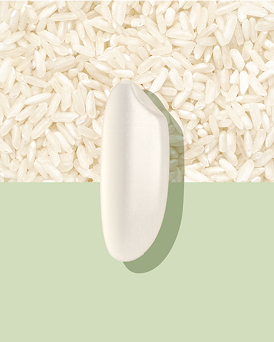
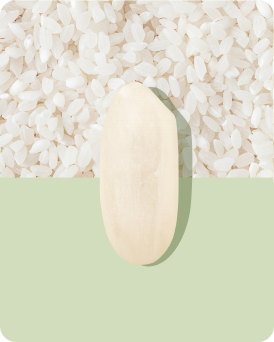
[UPDATE] content layout fb r1.3

Changed region(s): [[0.0, 0.0, 1.0, 0.8187], [0.9343, 0.9649, 1.0, 1.0], [0.0, 0.9649, 0.0584, 1.0]]

diff --git a/tt-rice-app/src/app/_components/home/StatisticsSection.tsx b/tt-rice-app/src/app/_components/home/StatisticsSection.tsx
@@ -31,12 +31,12 @@ export function StatisticSection(){
     return (
         <section className="pt-20 pb-5 bg-white">
         <div className="max-w-7xl mx-auto px-4 sm:px-6 lg:px-8">
-          <div className="grid grid-cols-1 lg:grid-cols-2 gap-12">
-            <div>
-              <h2 className="text-[56px] sm:text-[80px] md:text-5xl font-bold mb-2 font-alegreya-sans" style={{color:" #0A5B89"}}>
+          <div className="relative">
+            <div className="w-[full] pb-16">
+              <h2 className="text-[56px] sm:text-[56px] md:text-[56px] font-[700] font-alegreya-sans" style={{color:" #0A5B89"}}>
                 Ươm hạt gạo, <br /> nuôi mạch nguồn Việt Nam
               </h2>
-              <p className="text-[32px] sm:text-[32px] text-gray-light mb-4 font-alegreya-sans" style={{color:"#667085"}}>
+              <p className="text-[32px] sm:text-[32px] mb-2 font-alegreya" style={{color:"#667085"}}>
                 Những giá trị mà hạt gạo Tư Trúc đã mang lại
               </p>
               <Button
@@ -50,13 +50,13 @@ export function StatisticSection(){
                 </span>
               </Button>
             </div>
-            <div>
+            <div className="w-[587px] h-[327px] absolute top-5.5 left-[52%]">
               <Image
                 src="/img_rectangle_3.png"
                 alt="Rice Field"
                 width={587}
                 height={327}
-                className="w-full h-auto rounded-2xl"
+                className="w-full h-full rounded-2xl"
               />
             </div>
           </div>
@@ -69,16 +69,16 @@ export function StatisticSection(){
                 fill
                 className="object-cover"
               />
-              <div className="relative z-10 p-6 sm:p-10 text-white">
+              <div className="relative z-10 px-6 sm:px-6 text-white">
                 <div className="mb-8">
-                  <div className="text-5xl sm:text-6xl font-bold mb-4 text-white font-alegreya-sans">&gt;300</div>
+                  <p className="text-[82px] sm:text-[82px] font-[700] text-white font-alegreya-sans leading-none pt-6">&gt;300</p>
                   <p className="text-white text-[16px] font-fz-poppins opacity-80">
                     hộ nông dân tại các vùng canh tác<br /> đang
                     hợp tác cùng Tư Trúc
                   </p>
                 </div>
                 <div>
-                  <div className="text-5xl sm:text-6xl font-bold mb-4 text-white font-alegreya-sans"> <svg className="inline-block w-12 h-12 sm:w-12 sm:h-12 align-middle mr-1" viewBox="0 0 24 24" fill="none" xmlns="http://www.w3.org/2000/svg">
+                  <div className="text-[82px] sm:text-[82px] font-[700] text-white font-alegreya-sans leading-none"> <svg className="inline-block w-16 h-16 sm:w-16 sm:h-16 align-middle mr-1" viewBox="0 0 24 24" fill="none" xmlns="http://www.w3.org/2000/svg">
                     <path d="M12 6L19 13H5L12 6Z" fill="#FFB000" stroke="#FFB000" strokeWidth="2" strokeLinejoin="round"/> {/* Triangle up icon */}
                   </svg>10%</div>
                   <p className="text-[16px] font-fz-poppins opacity-80">
@@ -91,16 +91,16 @@ export function StatisticSection(){
             {/* Right Statistics */}
             <div className="flex flex-col gap-8 w-full">
               {/* >100 & 70% */}
-              <div className="bg-[#6D9127] rounded-[16px] px-6 sm:px-10 py-[37px] text-white w-full lg:w-[605px] h-auto lg:h-[311px]">
+              <div className="bg-[#6D9127] rounded-[16px] px-6 sm:px-10 py-6 text-white w-full lg:w-[605px] h-auto lg:h-[311px]">
                 <div className="grid grid-cols-1 sm:grid-cols-2 gap-6">
                   <div>
-                    <div className="text-5xl sm:text-6xl font-bold mb-4 font-alegreya-sans">&gt;100</div>
+                    <div className="text-[82px] sm:text-[82px] font-bold font-alegreya-sans leading-none">&gt;100</div>
                     <p className="text-[16px] font-fz-poppins">
                       ha diện tích được áp dụng quy<br /> trình canh tác sạch, không hóa<br /> chất độc hại,... để cho ra dòng<br /> sản phẩm sạch mỗi năm
                     </p>
                   </div>
                   <div>
-                    <div className="text-5xl sm:text-6xl font-bold mb-4 font-alegreya-sans"><svg className="inline-block w-12 h-12 sm:w-12 sm:h-12 align-middle mr-1" viewBox="0 0 24 24" fill="none" xmlns="http://www.w3.org/2000/svg">
+                    <div className="text-[82px] sm:text-[82px] font-bold font-alegreya-sans leading-none"><svg className="inline-block w-16 h-16 sm:w-16 sm:h-18 align-middle mr-1" viewBox="0 2 24 20" fill="none" xmlns="http://www.w3.org/2000/svg">
                     {/* Added stroke and stroke-width for border */}
                     <path d="M12 18L5 11H19L12 18Z" fill="#FFB000" stroke="#FFB000" strokeWidth="2" strokeLinejoin="round"/>
                   </svg>70%</div>
@@ -112,7 +112,7 @@ export function StatisticSection(){
               </div>
 
               {/* 100% */}
-              <div className="rounded-[16px] px-6 sm:px-10 py-10 relative overflow-hidden bg-cover bg-center w-full lg:w-[605px] h-auto lg:h-[311px]">
+              <div className="rounded-[16px] px-6 sm:px-10 py-6 relative overflow-hidden bg-cover bg-center w-full lg:w-[605px] h-auto lg:h-[311px]">
                 <Image
                   src="/img__1.png"
                   alt="Environment"
@@ -120,7 +120,7 @@ export function StatisticSection(){
                   className="object-cover scale-140  translate-x-30 transform rounded-[16px]"
                 />
                 <div className="relative z-10 text-white">
-                  <div className="text-5xl sm:text-6xl font-bold mb-4 font-alegreya-sans">100%</div>
+                  <div className="text-[82px] sm:text-[82px] font-bold font-alegreya-sans leading-none">100%</div>
                   <p className="text-[16px] font-fz-poppins opacity-80 max-w-[251px]" style={{color:"#FBFFF2"}}>
                     phụ phẩm (trấu, cám, tro...) được tái chế làm phân bón hữu cơ và thức ăn chăn nuôi, góp phần giảm phát thải và gìn giữ môi trường
                   </p>

diff --git a/tt-rice-app/src/app/about/section/CustomerSection.tsx b/tt-rice-app/src/app/about/section/CustomerSection.tsx
@@ -15,14 +15,14 @@ const testimonials: Testimonial[] = [
     },
     {
       id: '2',
-      content: 'Tui đứng bếp trong căn tin bệnh viện cũng mấy chục năm rồi. Điều quan trọng nhất của của mỗi suất ăn là phải đủ chất, sạch sẽ, ngon miệng, để các y bác sĩ và bệnh nhân ăn no, đủ sức chống lại bệnh tật chứ. Mà tui nói thiệt là từ ngày đổi qua gạo Tư Trúc thấy  bệnh nhân và các nhân viên y tế ăn uống ngon miệng hơn,  nên bản thân cũng thấy an tâm hơn hẳn.',
+      content: 'Tui đứng bếp trong căn tin bệnh viện cũng mấy chục năm rồi. Điều quan trọng nhất của của mỗi suất ăn là phải đủ chất, sạch sẽ, \n ngon miệng, để các y bác sĩ và bệnh nhân ăn no, đủ sức chống lại \n bệnh tật chứ. Mà tui nói thiệt là từ ngày đổi qua gạo Tư Trúc thấy \n bệnh nhân và các nhân viên y tế ăn uống ngon miệng hơn,\n nên bản thân cũng thấy an tâm hơn hẳn.',
       author: 'Cô Sáu',
       position: 'Bếp trưởng căn tin bệnh viện',
       avatar: '/cosau_story.png',
    },
    {
       id: '3',
-      content: 'Làm thì mệt đó, nhưng mà bữa trưa lúc nào cũng có cơm ngon, nóng hổi, dẻo thơm, nên mấy anh em ai ai cũng vui bụng.  Một năm 12 tháng 4 mùa ăn cơm ở đây riết thấy quen miệng luôn, hổm bị bệnh nghỉ ở nhà mà tự nhiên tới trưa là thấy nhớ nhớ  cơm phần ở công ty…',
+      content: 'Làm thì mệt đó, nhưng mà bữa trưa lúc nào cũng có cơm ngon, \n nóng hổi, dẻo thơm, nên mấy anh em ai ai cũng vui bụng.\n Một năm 12 tháng 4 mùa ăn cơm ở đây riết thấy quen miệng luôn, \n hổm bị bệnh nghỉ ở nhà mà tự nhiên tới trưa là thấy nhớ nhớ \n cơm phần ở công ty…',
       author: 'Anh Cường',
       position: 'Công nhân khu công nghiệp',
       avatar: '/anh_cuong_story.png',
@@ -35,21 +35,26 @@ export function CustomerSection() {
   return (
     <section className="pt-20 pb-5 bg-[#FBFFF2]">
         <div className="max-w-4xl mx-auto px-4 sm:px-6 lg:px-8 text-center flex flex-col items-center">
-          <h2 className="text-3xl sm:text-4xl md:text-5xl font-bold mb-2 font-alegreya-sans" style={{ color: "#0A5B89" }}>
+          <h2 className="text-[56px] sm:text-4xl md:text-[56px] font-[700] mb-2 font-alegreya-sans" style={{ color: "#0A5B89" }}>
             Hạt gạo Tư Trúc qua câu chuyện <br  /> của mỗi người dùng
           </h2>
-          <p className="text-lg sm:text-xl md:text-2xl mb-8 font-alegreya-sans" style={{ color: "#667085" }}>
+          <p className="text-[32px] sm:text-xl md:text-[32px] mb-8 font-alegreya" style={{ color: "#667085" }}>
             Khách hàng nói gì về Tư Trúc?
           </p>
           <div className="flex-shrink-0 md:flex-[0.25]" >
             <Image src="/img_.svg" alt="Quote" width={56} height={39} />
           </div>
           <div className="py-6">
-            <p className="max-w-[566px] text-[16px] sm:text-[8px] md:text-[16px] font-fz-poppins text-gray-light leading-relaxed flex-1" style={{color:"#667085"}}>
-              {testimonial.content}
+            <p className="max-w-[566px] text-[16px] sm:text-[8px] md:text-[16px] font-fz-poppins font-[400] leading-[140%] flex-1" style={{color:"#667085"}}>
+              {testimonial.content.split('\n').map((line, i, arr) => (
+                  <React.Fragment key={i}>
+                    {line}
+                    {i !== arr.length - 1 && <br />}
+                  </React.Fragment>
+                ))}
             </p>
           </div>
-          <div className="flex flex-col items-center py-6 gap-4 md:flex-[1]">
+          <div className="flex flex-row items-center py-6 gap-4 md:flex-[1]">
             <Image
               src={testimonial.avatar}
               alt={testimonial.author}
@@ -57,11 +62,11 @@ export function CustomerSection() {
               height={56}
               className="rounded-full"
             />
-            <div className="text-center">
-              <h4 className="text-sm sm:text-base md:text-lg font-bold font-alegreya-sans text-blue-dark mb-1" style={{color:"#0A5B89"}}>
+            <div className="text-left">
+              <h4 className="text-[20px] sm:text-[20px] md:text-[20px] font-[500] font-alegreya-sans leading-[140%]  mb-1" style={{color:"#0A5B89"}}>
                 {testimonial.author}
               </h4>
-              <p className="text-xs sm:text-sm text-gray-muted font-alegreya-sans "style={{color:"#5C6578"}}>
+              <p className="text-[16px] sm:text-[16px] font-fz-poppins font-[400] opacity-60"style={{color:"#5C6578"}}>
                 {testimonial.position}
               </p>
             </div>

diff --git a/tt-rice-app/src/app/_components/home/PartnerSection.tsx b/tt-rice-app/src/app/_components/home/PartnerSection.tsx
@@ -9,7 +9,7 @@ export function PartnerSection(){
           style={{ backgroundImage: 'url("/class_background.jpg")' }}
         >
           <div className="max-w-7xl mx-auto">
-            <div className="text-center mb-4 sm:mb-8">
+            <div className="text-center mb-2 sm:mb-2">
               <h2 className="text-[32x] sm:text-[32px] font-[400] font-alegreya opacity-90" style={{color: "#F0F1F3"}}>
                 Đối tác và khách hàng
               </h2>
@@ -18,10 +18,10 @@ export function PartnerSection(){
             <div className="flex flex-col gap-4 lg:flex-row lg:justify-center lg:gap-6">
               {/* Khách hàng lẻ */}
               <div className="flex-shrink-0 w-full sm:w-[264px] h-auto sm:h-[200px] rounded-[16px] p-6 flex flex-col bg-[#EDF5DC] shadow-md">
-                <div className="mb-4">
-                  <Image src="/img_users.svg" alt="Users" width={42} height={42} />
+                <div className="mb-2">
+                  <Image src="/img_users.svg" alt="Users" width={41} height={26} />
                 </div>
-                <ul className="space-y-1 text-green-dark text-sm">
+                <ul className="space-y-0 text-green-dark text-sm">
                   <li className="flex items-start gap-2">
                     <span className="text-green-normal text-lg font-fz-poppins">•</span>
                     <p className= "text-[16px] font-fz-poppins"style={{color:"#667085"}}>Khách hàng lẻ</p>
@@ -32,18 +32,18 @@ export function PartnerSection(){
                   </li>
                   <li className="flex items-start gap-2">
                     <span className="text-green-normal text-lg font-fz-poppins">•</span>
-                    <p className= "text-[16px] font-fz-poppins"style={{color:"#667085"}}>Nhà phân phối / Đại lý gạo</p>
+                    <p className= "text-[16px] font-fz-poppins"style={{color:"#667085"}}>Nhà phân phối / <br /> Đại lý gạo</p>
                   </li>
                 </ul>
               </div>
 
               {/* Bếp ăn công nghiệp */}
               <div className="flex-shrink-0 w-full sm:w-[470px] h-auto sm:h-[200px] rounded-[16px] p-6 grid grid-cols-1 bg-[#EDF5DC] shadow-md">
-                <div className="mb-4">
-                  <Image src="/img_building.svg" alt="Business" width={24} height={24} />
+                <div className="mt-2">
+                  <Image src="/img_building.svg" alt="Business" width={29} height={29} />
                 </div>
                 <div className="grid grid-cols-1 sm:grid-cols-2 gap-x-4">
-                  <ul className="space-y-3 text-green-dark text-sm">
+                  <ul className="space-y-0 text-green-dark text-sm">
                     <li className="flex items-start gap-2">
                       <span className="text-green-normal text-lg font-fz-poppins">•</span>
                       <p className= "text-[16px] font-fz-poppins"style={{color:"#667085"}}>Bếp ăn công nghiệp</p>
@@ -53,7 +53,7 @@ export function PartnerSection(){
                       <p className= "text-[16px] font-fz-poppins"style={{color:"#667085"}}>Cơ quan Nhà nước / Quân đội</p>
                     </li>
                   </ul>
-                  <ul className="space-y-3 text-green-dark text-sm">
+                  <ul className="space-y-0 text-green-dark text-sm">
                     <li className="flex items-start gap-2">
                       <span className="text-green-normal text-lg font-fz-poppins">•</span>
                     <p className= "text-[16px] font-fz-poppins"style={{color:"#667085"}}>Bệnh viện / Trường học</p> 
@@ -72,8 +72,8 @@ export function PartnerSection(){
                   <Image
                     src="/img_factory.svg"
                     alt="Factory"
-                    width={24}
-                    height={24}
+                    width={27}
+                    height={25}
                     className="mr-2"
                   />
                   <span className="text-[16px] font-fz-poppins"style={{color:"#667085"}}>Cơ sở sản xuất</span>
@@ -83,7 +83,7 @@ export function PartnerSection(){
                     src="/img_farm.svg"
                     alt="Farm"
                     width={24}
-                    height={24}
+                    height={29}
                     className="mr-2"
                   />
                   <span className="text-[16px] font-fz-poppins"style={{color:"#667085"}}>Cơ sở canh tác / Khác</span>

diff --git a/tt-rice-app/src/app/_components/home/TestinomialSection.tsx b/tt-rice-app/src/app/_components/home/TestinomialSection.tsx
@@ -1,25 +1,26 @@
 "use client";
 import type { Testimonial } from "~/app/types/Types"
 import Image from "next/image"
+import React from "react";
 import { useState } from 'react';
 const testimonials: Testimonial[] = [
     {
         id: '1',
-        content: 'Làm lúa bao nhiêu năm nay, tôi hiểu rõ từng hạt gạo mình làm ra. Từ lúc gieo mạ đến ngày thu hoạch, đều tự tay chăm chút. Thành ra, bao năm nay tôi chỉ ăn mỗi gạo Tư Trúc, vì tôi biết chắc từng hạt cơm sạch sẽ, tử tế như chính công sức mình bỏ vào. ',
+        content: 'Làm lúa bao nhiêu năm nay, tôi hiểu rõ từng \n hạt gạo mình làm ra. Từ lúc gieo mạ đến \n ngày thu hoạch, đều tự tay chăm chút. \n Thành ra, bao năm nay tôi chỉ ăn mỗi gạo \n Tư Trúc, vì tôi biết chắc từng hạt cơm sạch sẽ, \n tử tế như chính công sức mình bỏ vào. ',
         author: 'Anh Năm Tiến (37 tuổi)',
         position: 'Nông dân Long Điền',
         avatar: '/testinomial_nam_tien.png'
     },
     {
       id: '2',
-      content: 'Nhà tui 3 người thì hết 2 người là đang làm việc cho xưởng này rồi: tui thì vận hành máy móc, vợ tui kiểm kho hàng. Thằng con tui thì mới thi đại học, tính ra toàn bộ học phí mười mấy năm của nó đều đến từ mấy nồi cơm thơm nóng của bà con hết đó chớ!',
+      content: 'Nhà tui 3 người thì hết 2 người là đang \n làm việc cho xưởng này rồi: tui thì \n vận hành máy móc, vợ tui kiểm kho hàng. \n Thằng con tui thì mới thi đại học, tính ra \n toàn bộ học phí mười mấy năm của nó \n đều đến từ mấy nồi cơm thơm nóng \n của bà con hết đó chớ!',
       author: 'Anh Long (37 tuổi)',
       position: 'Công nhân nhà máy Tư Trúc',
       avatar: '/anh_long_testinomial.png',
     },
     {
       id: '3',
-      content: 'Hơn 30 năm gắn bó cùng hạt gạo, tôi luôn nghĩ: “Hạt cơm mình bán ra, cuối cùng cũng sẽ có ngày quay về mâm cơm nhà mình”. Nên mỗi mẻ gạo, tôi coi như làm cho chính người thân mình ăn vậy. Sạch, thật, tử tế, chỉ cần vậy, rồi khách hàng sẽ tự cảm nhận…',
+      content: 'Hơn 30 năm gắn bó cùng hạt gạo, \n tôi luôn nghĩ: “Hạt cơm mình bán ra, \n cuối cùng cũng sẽ có ngày quay về \n mâm cơm nhà mình”. Nên mỗi mẻ gạo, \n tôi coi như làm cho chính người thân mình \n ăn vậy. Sạch, thật, tử tế, chỉ cần vậy, \n rồi khách hàng sẽ tự cảm nhận…',
       author: 'Bà Tư (58 tuổi)',
       position: 'Chủ nhà máy Tư Trúc',
       avatar: '/ba_tu_testinomial.png',
@@ -32,7 +33,7 @@ export function Testimonial(){
     return (
         <section className="pb-20 pt-5 bg-white">
         <div className="max-w-7xl mx-auto px-4 sm:px-6 lg:px-8 ">
-          <div className="grid grid-cols-1 lg:grid-cols-[25%_65%] gap-8 lg:gap-12">
+          <div className="grid grid-cols-1 lg:grid-cols-[25%_68%] gap-4 lg:gap-6">
             {/* Title Section */}
             <div className="text-center lg:text-left flex flex-col justify-center">
            <h2 className="font-alegreya-sans font-[500] text-[56px] sm:text-[56px] leading-[100%] tracking-[0]  text-[#526D1D]">
@@ -52,7 +53,12 @@ export function Testimonial(){
                 {/* Content Text */}
                 <div className="flex flex-col md:flex-[3]">
                   <p className="text-sm sm:text-base md:text-lg font-fz-poppins text-gray-light leading-relaxed flex-1 border-r-2 pr-4 border-[#E8EAED] " style={{color:"#667085"}}>
-                    {testimonial.content}
+                    {testimonial.content.split('\n').map((line, i, arr) => (
+                      <React.Fragment key={i}>
+                        {line}
+                        {i !== arr.length - 1 && <br />}
+                      </React.Fragment>
+                    ))}
                   </p>
                   {/* Pagination */}
                   <div className="flex gap-2 mt-2 sm:mt-4">

diff --git a/tt-rice-app/src/app/_components/utils/RiceList.tsx b/tt-rice-app/src/app/_components/utils/RiceList.tsx
@@ -1,10 +1,10 @@
 import RiceCard from './RiceCard';
 
 const riceItems = [
-  { image: '/gao_an.svg', label: 'Gạo ăn' ,hoverImage: '/gao_an_hover.png', slug:'gao-an'},
-  { image: '/gao_thong_dung.svg', label: 'Gạo thông dụng' ,hoverImage: '/gao_thong_dung_hover.png',slug:'gao-thong-dung'},
-  { image: '/gao_nguyen_lieu.svg', label: 'Gạo nguyên liệu' ,hoverImage: '/gao_nguyen_lieu_hover.png',slug:'gao-nguyen-lieu'},
-  { image: '/trau.svg', label: 'Phụ phẩm' ,hoverImage: '/phu_pham_hover.png',slug:'gao-cam-trau'},
+  { image: '/gao_an.png', label: 'Gạo ăn' ,hoverImage: '/gao_an_hover.png', slug:'gao-an'},
+  { image: '/gao_thong_dung.png', label: 'Gạo thông dụng' ,hoverImage: '/gao_thong_dung_hover.png',slug:'gao-thong-dung'},
+  { image: '/gao_nguyen_lieu.png', label: 'Gạo nguyên liệu' ,hoverImage: '/gao_nguyen_lieu_hover.png',slug:'gao-nguyen-lieu'},
+  { image: '/trau.png', label: 'Phụ phẩm' ,hoverImage: '/phu_pham_hover.png',slug:'gao-cam-trau'},
 ];
 
 

diff --git a/tt-rice-app/src/app/about/section/RiceSection.tsx b/tt-rice-app/src/app/about/section/RiceSection.tsx
@@ -107,7 +107,7 @@ export function RiceSection() {
             </div>
           </div>
         </div>
-        <div className="flex flex-col-reverse md:flex-row justify-between items-center gap-4 max-w-[973px] max-h-[223px] mx-auto pb-64 ">
+        <div className="flex flex-col-reverse md:flex-row justify-between items-center gap-4 max-w-[973px] max-h-[223px] mx-auto pb-56 ">
         {/* Left Column: Title and Paragraph */}
         <div className="w-full md:basis-[56%] relative pt-64">
           <div className="absolute -top-2 -left-4 md:-left-10 w-10 md:w-14 h-8 md:h-10  opacity-50 pointer-events-none pt-64">
